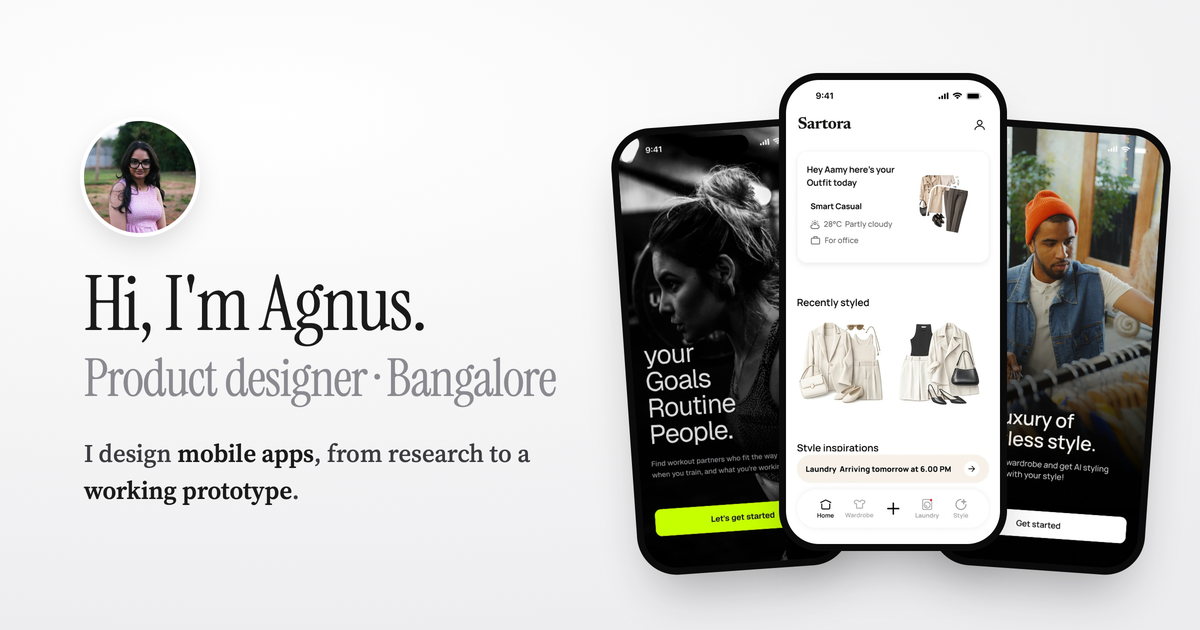
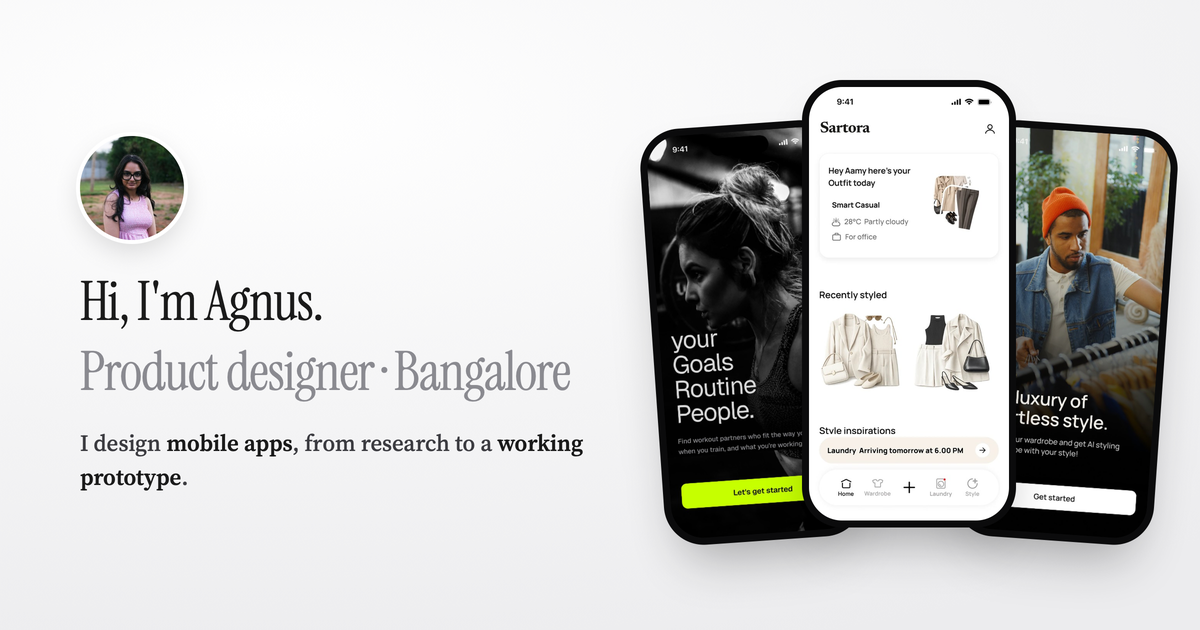
Link preview: equal name and role sizes, aligned

Changed region(s): [[0.0617, 0.0905, 0.9867, 0.9349], [0.0617, 0.6937, 0.4933, 0.8143], [0.0617, 0.181, 0.185, 0.3921]]

diff --git a/work/sartora/index.html b/work/sartora/index.html
@@ -8,7 +8,7 @@
 <meta property="og:title" content="Sartora · Agnus SK">
 <meta property="og:description" content="An app that suggests outfit combinations based on the clothes you already own and lets you try different looks virtually. View your clothes in a digital wardrobe and manage your laundry.">
 <meta property="og:type" content="website">
-<meta property="og:image" content="https://agnus-sk.github.io/design-portfolio/share.png?v=1793931047">
+<meta property="og:image" content="https://agnus-sk.github.io/design-portfolio/share.png?v=1793977510">
 <meta property="og:image:width" content="1200">
 <meta property="og:image:height" content="630">
 <meta name="twitter:card" content="summary_large_image">

diff --git a/work/syncfit/index.html b/work/syncfit/index.html
@@ -8,7 +8,7 @@
 <meta property="og:title" content="SyncFit · Agnus SK">
 <meta property="og:description" content="A fitness app that helps you find workout partners nearby, track your workouts and progress, and discover and register for fitness events around you.">
 <meta property="og:type" content="website">
-<meta property="og:image" content="https://agnus-sk.github.io/design-portfolio/share.png?v=1793931047">
+<meta property="og:image" content="https://agnus-sk.github.io/design-portfolio/share.png?v=1793977510">
 <meta property="og:image:width" content="1200">
 <meta property="og:image:height" content="630">
 <meta name="twitter:card" content="summary_large_image">

diff --git a/index.html b/index.html
@@ -8,7 +8,7 @@
 <meta property="og:title" content="Agnus SK, Product Designer">
 <meta property="og:description" content="I design mobile apps, from research to a working prototype. Here are a few things I&#x27;ve made.">
 <meta property="og:type" content="website">
-<meta property="og:image" content="https://agnus-sk.github.io/design-portfolio/share.png?v=1793931047">
+<meta property="og:image" content="https://agnus-sk.github.io/design-portfolio/share.png?v=1793977510">
 <meta property="og:image:width" content="1200">
 <meta property="og:image:height" content="630">
 <meta name="twitter:card" content="summary_large_image">

diff --git a/work/sartora/survey/index.html b/work/sartora/survey/index.html
@@ -8,7 +8,7 @@
 <meta property="og:title" content="Sartora survey report · Agnus SK">
 <meta property="og:description" content="Summary of the Sartora survey">
 <meta property="og:type" content="website">
-<meta property="og:image" content="https://agnus-sk.github.io/design-portfolio/share.png?v=1793931047">
+<meta property="og:image" content="https://agnus-sk.github.io/design-portfolio/share.png?v=1793977510">
 <meta property="og:image:width" content="1200">
 <meta property="og:image:height" content="630">
 <meta name="twitter:card" content="summary_large_image">

diff --git a/work/syncfit/survey/index.html b/work/syncfit/survey/index.html
@@ -8,7 +8,7 @@
 <meta property="og:title" content="SyncFit survey report · Agnus SK">
 <meta property="og:description" content="Summary of the SyncFit survey">
 <meta property="og:type" content="website">
-<meta property="og:image" content="https://agnus-sk.github.io/design-portfolio/share.png?v=1793931047">
+<meta property="og:image" content="https://agnus-sk.github.io/design-portfolio/share.png?v=1793977510">
 <meta property="og:image:width" content="1200">
 <meta property="og:image:height" content="630">
 <meta name="twitter:card" content="summary_large_image">

diff --git a/explorations/index.html b/explorations/index.html
@@ -8,7 +8,7 @@
 <meta property="og:title" content="Explorations · Agnus SK">
 <meta property="og:description" content="Ideas I explored in my free time.">
 <meta property="og:type" content="website">
-<meta property="og:image" content="https://agnus-sk.github.io/design-portfolio/share.png?v=1793931047">
+<meta property="og:image" content="https://agnus-sk.github.io/design-portfolio/share.png?v=1793977510">
 <meta property="og:image:width" content="1200">
 <meta property="og:image:height" content="630">
 <meta name="twitter:card" content="summary_large_image">
